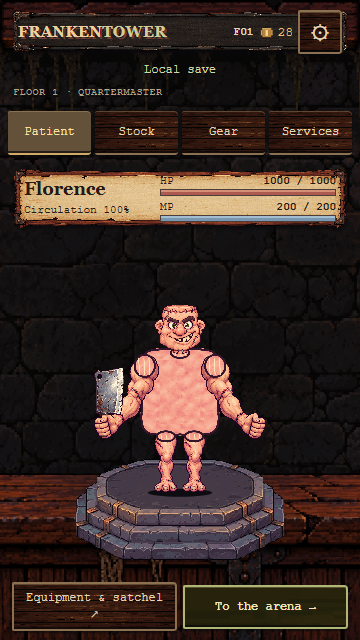
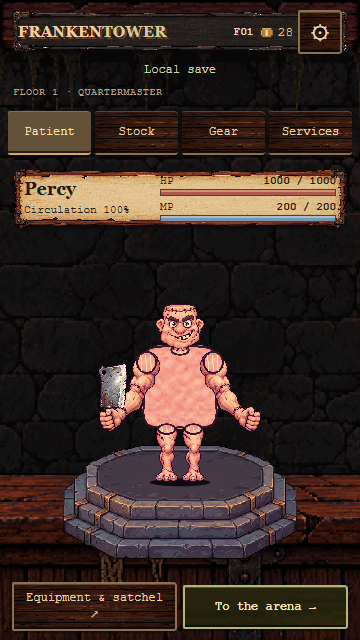
Finish responsive UI verification and private RUN release

Changed region(s): [[0.1528, 0.4688, 0.825, 0.875], [0.0917, 0.2812, 0.3056, 0.3125]]

diff --git a/src/styles.css b/src/styles.css
@@ -29,6 +29,7 @@ input {
 button,
 select {
   min-height: 44px;
+  min-width: 44px;
   border: 2px solid #796047;
   padding: 8px 12px;
   background: #302b28;
@@ -376,6 +377,8 @@ canvas,
   grid-column: 2;
   grid-row: 2;
   min-height: 0;
+  min-width: 0;
+  position: relative;
   display: flex;
   justify-content: center;
   background: #17181e;
@@ -387,6 +390,13 @@ canvas,
   width: auto;
   height: 100%;
   object-fit: contain;
+  pointer-events: none;
+}
+.shop-creature > .dressing-room {
+  position: absolute;
+  inset: 0;
+  width: 100%;
+  height: 100%;
 }
 .equipment-overview {
   grid-column: 1;
@@ -1698,6 +1708,16 @@ canvas,
     width: 48%;
   }
 }
+@media (max-height: 499px), (min-width: 681px) and (max-height: 619px) {
+  .compact-shop .shop-card:has(.purchase-reason) .paged-text {
+    grid-row: 1;
+  }
+  .compact-shop .shop-card .purchase-reason {
+    grid-column: 2;
+    grid-row: 2;
+    align-self: center;
+  }
+}
 @media (max-width: 680px) and (max-height: 619px) {
   .compact-shop .card-info .pixel-icon {
     width: 44px !important;
@@ -1794,9 +1814,25 @@ canvas,
     align-self: start;
     flex-wrap: wrap;
   }
+  .equipment-workspace > .selected-equipment:has(strong) {
+    display: grid;
+    grid-template-columns: 32px minmax(0, 1fr) minmax(0, 1fr);
+    gap: 4px;
+  }
+  .equipment-workspace > .selected-equipment strong {
+    grid-column: 2 / 4;
+  }
+  .equipment-workspace > .selected-equipment button:first-of-type {
+    grid-column: 1 / 3;
+  }
+  .equipment-workspace > .selected-equipment button:last-of-type {
+    grid-column: 3;
+  }
   .equipment-workspace > .action-reason {
     grid-column: 1;
     grid-row: 3;
+    font-size: 12px;
+    line-height: 1.35;
   }
   .equipment-workspace > .paged-list,
   .equipment-workspace > .workspace-satchel {

diff --git a/src/ui-materials.css b/src/ui-materials.css
@@ -510,6 +510,9 @@ button:hover:not(:disabled) {
   }
 }
 @media (max-height: 499px) and (min-width: 681px) {
+  .modal:has(.equipment-workspace) {
+    padding: 18px;
+  }
   .compact-shop {
     display: grid;
     grid-template-columns: 132px minmax(0, 1fr);

diff --git a/docs/ui-review.md b/docs/ui-review.md
@@ -1,8 +1,9 @@
 # UI implementation review
 
-11 October 2026. Status: unfinished implementation checkpoint; final verification
-is outstanding. See [the cross-machine handoff](ui-pass-handoff.md) for precise
-deployment state, setup and continuation steps.
+Updated 13 October 2026. The full UI pass has been implemented and reviewed in
+the local app and private RUN host. Physical-device performance and human
+playtesting remain release-roadmap work. The [11 October handoff](ui-pass-handoff.md)
+preserves the earlier checkpoint; this review records the newer verification.
 
 This records implementation evidence against [UI expectations](ui-expectations.md).
 The shop mockup remains the visual target. The pass replaces the former dashboard
@@ -10,24 +11,24 @@ presentation with dungeon, timber, iron and parchment materials across live view
 
 ## Scope and evidence
 
-| Expectation                        | Implementation and evidence                                                                                                                                                                                                                                    |
-| ---------------------------------- | -------------------------------------------------------------------------------------------------------------------------------------------------------------------------------------------------------------------------------------------------------------- |
-| Phone and desktop compositions     | Desktop shop places patient/equipment, creature and stock beside one another. Compact views separate Patient, Stock, Gear and Services. Short desktop records shrink before equipment controls do.                                                             |
-| Compact phone identity/vitals      | A single-row wordmark/floor/gold/Settings shell; Patient uses a small name/circulation and HP/MP strip. Header shortcuts remain available through Settings.                                                                                                    |
-| Core views without scrolling       | Existing browser check measures document and every visible element for content overflow and off-screen controls across nine viewport sizes, plus stock-field overlap. It covers starter, shop, equipment, inspection, surgery, outcomes and reference dialogs. |
-| Full information remains reachable | Measured wrapped text uses explicit pages; grids use available rows/columns. The check reconstructs complete long item rules and level-three signatures from all text pages.                                                                                   |
-| Equipment expansion                | One bounded workspace with persistent Done, category selection, slot pages, satchel, item details and touch actions. Counts come from actual anatomy. No nested transfer dialogs.                                                                              |
-| Large/repeated anatomy             | Fixtures include 42 hands, 26 feet, seven heads/hearts, and headless control. Category pages keep stable ordinal slot labels. Existing puppet check verifies eight anatomies, three poses and both attack directions.                                          |
-| Limited satchel                    | Eight spaces enforced in game rules and validation. Unit tests verify full-bag swaps/direct empty-slot purchase, rejected transfers without mutation, and displaced surgery equipment before payment.                                                          |
-| Exact surgery preview              | Preview and execution share removal selection; shows slots, HP, Mana, circulation, capacity/load, movement and displaced equipment. Current/Proposed renderer previews use that exact build.                                                                   |
-| Stock state and actual costs       | Four desktop offers, explicit phone offer pages, sold positions retained, free freeze and game-derived service prices. Browser checks exercise buying, freeze, reload and next-floor stock.                                                                    |
-| Tap, pointer and keyboard          | Browser flows exercise purchase/equip/unequip/combine/sell through actual controls. Expanded workspaces trap focus; thirty Tab presses remain inside, Escape restores the opener. Pointer dragging remains optional.                                           |
-| Resize and safe areas              | Layouts account for all four RUN safe-area fields. Browser checks add nonzero insets, rotate and return, preserving workspace/category/page and saved state. Playground check compares CSS insets with the actual SDK values.                                  |
-| Compact arena and outcomes         | Arena remains dominant; compact vitals, pause/speed, opponent inspection and bounded outcome actions. Existing arena check verifies spatial movement, pause/resume, inspection and desktop/mobile composition.                                                 |
-| Reference and recovery             | Help, history, achievements, catalogue, build inspection and reports use sections/pages. Damage recovery and two-step destructive reset fit portrait, landscape and small phone.                                                                               |
-| Scrolling exception                | Only `.combat-transcript` has a bounded scrolling reader; Close and report navigation remain outside it. Hidden measurement probes are excluded from fit checks, not live content.                                                                             |
-| Artwork and rendering quality      | Adaptive nine-slice frames, RUN plinth/timber, display-density icons, and resting-pose creature fitting. Inventory cleaver/crown art matches assembly. Actual screenshots are retained below.                                                                  |
-| Engine and persistence boundaries  | React handles navigation; inventory/surgery own capacity. Shared combat/ability engine retained. Production build enforces exclusion of development-only storage; hosted persistence remains RUN appStorage.                                                   |
+| Expectation                        | Implementation and evidence                                                                                                                                                                                                                                                                                                |
+| ---------------------------------- | -------------------------------------------------------------------------------------------------------------------------------------------------------------------------------------------------------------------------------------------------------------------------------------------------------------------------- |
+| Phone and desktop compositions     | Desktop shop places patient/equipment, creature and stock beside one another. Compact views separate Patient, Stock, Gear and Services. Short desktop records shrink before equipment controls do.                                                                                                                         |
+| Compact phone identity/vitals      | A single-row wordmark/floor/gold/Settings shell; Patient uses a small name/circulation and HP/MP strip. Header shortcuts remain available through Settings.                                                                                                                                                                |
+| Core views without scrolling       | Existing browser check measures document and every visible element for content overflow and off-screen controls across nine viewport sizes, plus stock-field overlap. It covers starter, shop, equipment, inspection, surgery, outcomes and reference dialogs.                                                             |
+| Full information remains reachable | Measured wrapped text uses explicit pages; grids use available rows/columns. The check reconstructs complete long item rules and level-three signatures from all text pages.                                                                                                                                               |
+| Equipment expansion                | One bounded workspace with persistent Done, category selection, slot pages, satchel, item details and touch actions. Counts come from actual anatomy. No nested transfer dialogs.                                                                                                                                          |
+| Large/repeated anatomy             | Fixtures include 42 hands, 26 feet, seven heads/hearts, and headless control. Category pages keep stable ordinal slot labels. Existing puppet check verifies eight anatomies, three poses and both attack directions.                                                                                                      |
+| Limited satchel                    | Eight spaces enforced in game rules and validation. Unit tests verify full-bag swaps/direct empty-slot purchase, rejected transfers without mutation, and displaced surgery equipment before payment.                                                                                                                      |
+| Exact surgery preview              | Preview and execution share removal selection; shows slots, HP, Mana, circulation, capacity/load, movement and displaced equipment. Current/Proposed renderer previews use that exact build.                                                                                                                               |
+| Stock state and actual costs       | Four desktop offers, explicit phone offer pages, sold positions retained, free freeze and game-derived service prices. Browser checks exercise buying, freeze, reload and next-floor stock.                                                                                                                                |
+| Tap, pointer and keyboard          | Browser flows exercise purchase/equip/unequip/combine/sell through actual controls. Visible buttons/selects are measured against the approximately 44-pixel target (two-pixel allowance). Expanded workspaces trap focus; thirty Tab presses remain inside, Escape restores the opener. Pointer dragging remains optional. |
+| Resize and safe areas              | Layouts account for all four RUN safe-area fields. Browser checks add nonzero insets, rotate and return, preserving workspace/category/page and saved state. Playground check compares CSS insets with the actual SDK values.                                                                                              |
+| Compact arena and outcomes         | Arena remains dominant; compact vitals, pause/speed, opponent inspection and bounded outcome actions. Existing arena check verifies spatial movement, pause/resume, inspection and desktop/mobile composition.                                                                                                             |
+| Reference and recovery             | Help, history, achievements, catalogue, build inspection and reports use sections/pages. Damage recovery and two-step destructive reset fit portrait, landscape and small phone.                                                                                                                                           |
+| Scrolling exception                | Only `.combat-transcript` has a bounded scrolling reader; Close and report navigation remain outside it. Hidden measurement probes are excluded from fit checks, not live content.                                                                                                                                         |
+| Artwork and rendering quality      | Adaptive nine-slice frames, RUN plinth/timber, display-density icons, and resting-pose creature fitting. Inventory cleaver/crown art matches assembly. Actual screenshots are retained below.                                                                                                                              |
+| Engine and persistence boundaries  | React handles navigation; inventory/surgery own capacity. Shared combat/ability engine retained. Production build enforces exclusion of development-only storage; hosted persistence remains RUN appStorage.                                                                                                               |
 
 Review sizes, in CSS pixels: **360×640, 390×844, 844×390, 844×342, 1280×720,
 1440×900, 768×1024, 1024×576 and 320×568**. The compact breakpoint is width
@@ -35,17 +36,69 @@ below 1100 or height below 620; additional short-height arrangements apply below
 
 ## Commands and results
 
-- `npm test`: 61/61 passed before the last short-height changes; final run pending.
-- `npm run build`: passed before the last short-height changes; final run pending.
-- `npm run test:browser`: a complete run passed browser, arena, puppet and reliability
-  checks after short-landscape fixes. The latest rerun added a blocked-full-bag
-  fixture; its completion output was not retained and its result is unconfirmed.
+- `npm test`: **61/61 passed** on the final runtime source, 13 October.
+- `npm run build`: **passed**, including the production storage boundary check.
+- `npm run test:browser`: **passed** browser, arena, puppet and reliability checks
+  on the final runtime source. Includes blocked-full-bag stock, inspection and
+  destinations, short-height layouts, field overlap, touch targets and native
+  footer hit geometry after phone-to-desktop rotation.
+- The existing browser check also **passed at actual 125% and 200% Chrome zoom**
+  across all nine effective CSS viewport sizes. Physical windows are scaled to
+  retain the specified effective dimensions; the test verifies those dimensions.
+  This exercises zoom/density rendering as well as the smaller layouts covered
+  by the normal suite. It does not claim arbitrary minimum-size support.
 - `node scripts/playground-check.mjs`: passed actual RUN initialization, identity,
-  cloud writes, reload/read and four-field safe areas using a disposable profile.
-- Private version `1.8.12`: basic persistence/combat smoke passed. The expanded
-  hosted check failed at effective 844×342 with purchased-stock layout overflow.
-  The working tree includes subsequent fixes, but these have not been uploaded
-  or verified on the host. Final private upload and expanded host check pending.
+  cloud writes, reload/read and four-field safe areas using disposable profile
+  `ui_review_1013`. The one-day grant was **revoked** after the final check.
+- Private RUN version **`1.8.14`** contains the final runtime source. Actual-zoom
+  hosted verification **passed** boot, purchase/equipment cloud reload, frame fit,
+  all four SDK safe areas, canvas density, footer hit geometry, combat, floor two,
+  a second cloud reload and saved 4× speed in a disposable profile.
+- The normal-density hosted check **also passed** those checks, including the
+  live resize-to-interaction path using the corrected capture method below.
+
+The prior `1.8.12` short-landscape stock failure is fixed. Blocked stock places
+its explanation beside the price; equipment selection uses a compact grid and
+leaves room inside the frame. Shop canvases are constrained to their scene and
+do not receive pointer input. Buttons/selects retain a 44-pixel minimum width.
+
+### Host measurements and automation limitation
+
+The RUN web toolbar takes 48 CSS pixels. Verified game frames were **390×796,
+844×342, 360×592 and 1440×912**, from browser sizes 390×844, 844×390, 360×640 and
+1440×960. Canvas backing dimensions are checked against the **game frame's actual
+reported DPR**, not an assumed outer-window density. The normal host reported
+DPR 1; actual 200% Chrome zoom reported DPR 1.5 in the RUN frame.
+
+An outer `deviceScaleFactor: 2` setting did not propagate to the RUN frame.
+Playwright's element/full-page screenshot path also cropped actual browser-zoom
+output and left the resized iframe without pointer/click delivery despite
+correct DOM hit geometry; a capture listener confirmed no event reached the
+game. Capturing the rendered viewport directly with CDP, without resizing for
+the screenshot, resolved the capture/input discrepancy. Both normal and actual
+zoom checks retain the live resize-to-interaction path. Native handset input
+remains part of the physical-device release review.
+
+To repeat actual zoom checks with installed Chrome, set
+`FRANKENTOWER_BROWSER_ZOOM=1.25` or `2`. For the local suite, set
+`FRANKENTOWER_CHECKS=browser` to repeat just its UI portion. Zoom checks use an
+isolated temporary persistent Chrome profile and its actual zoom setting; the
+developer's browser/profile is not changed. Default checks use the ordinary
+isolated context. Credentials and private share URLs remain ignored.
+
+## Completion audit against the implementation brief
+
+| Brief section              | Evidence reviewed                                                                                                                                                                                                                                  |
+| -------------------------- | -------------------------------------------------------------------------------------------------------------------------------------------------------------------------------------------------------------------------------------------------- |
+| 1. Fit the viewport        | Nine-size browser fit/overlap/control measurements for starter, shop, expanded gear, inspection, surgery, outcomes, references and recovery; complete rules/signature page reconstruction. Only the bounded transcript scrolls.                    |
+| 2. Phone and desktop       | Separate compact/desktop layout code, actual phone/desktop/short-landscape captures, tablet/intermediate sizes, real zoom runs, local rotation/state preservation and actual RUN iframe/safe-area measurements.                                    |
+| 3. Shared visual language  | Live rendered dungeon scene, adaptive parchment/iron frames, timber controls, compact phone vitals and prominent creature; arena captures retain combat emphasis. Labels/prices are live elements.                                                 |
+| 4. Shop                    | Four offers and sold positions, inspection sections, actual engine costs, paged compact stock, freeze/service flows and cloud-preserved purchases.                                                                                                 |
+| 5. Equipment expansion     | Actual anatomy counts, empty/filled/inactive labels, stable slot pages, extreme/headless fixtures, touch-style transfer/combine/sell controls, category/context retention and focus/close checks.                                                  |
+| 6. Limited satchel         | Capacity eight in rules and save validation; atomic purchase/swap/surgery/combine tests; full-bag UI destinations and contextual blocked explanations.                                                                                             |
+| 7. Screen compositions     | Existing checks cover build, surgery, spatial combat/pause, all four outcome types, build/item inspection, history/help/settings/catalogue/reports and recovery. Captures reviewed from the live renderer.                                         |
+| 8. Interaction/readability | Measured approximately 44-pixel targets, visible focus and labels, Tab/Escape/opener tests, non-colour state text, complete paged descriptions and reduced-motion code; actual 125%/200% zoom runs.                                                |
+| 9. Acceptance evidence     | Final unit/build/full browser checks, real SDK persistence checks, private hosted checks and retained screenshots. No runtime offline storage or public publishing; physical-device/performance/playtest release gates remain explicitly separate. |
 
 Local verification uses installed Chrome through `FRANKENTOWER_BROWSER_EXECUTABLE`.
 The environment has Node 24.14.0; clean CI continues using the repository's Node 22
@@ -56,6 +109,12 @@ configuration. Credentials and private links remain in ignored files.
 See [the retained review captures](../output/art-direction/ui-pass/review/) and
 [art provenance / exact RUN prompts](../output/art-direction/ui-pass/README.md).
 These are rendered screens from the app, not concept images.
+
+The 13 October captures include updated desktop/phone shops, short landscape
+blocked purchases/destinations and surgery. Hosted captures show the actual RUN
+browser viewport, including its toolbar. They do not include the private share
+URL or credentials. Zoomed captures were visually reviewed for full visibility,
+not accepted solely from DOM measurements.
 
 ## Compatibility and remaining release work
 

diff --git a/docs/ui-pass-handoff.md b/docs/ui-pass-handoff.md
@@ -2,9 +2,19 @@
 
 Recorded **11 October 2026**, Australia/Brisbane. This is an unfinished implementation checkpoint for resuming on another machine.
 
+**13 October continuation:** the UI pass was resumed from commit `a657cd8`.
+The stock/equipment short-height issues, touch widths and display bounds were
+corrected and privately uploaded as RUN **1.8.14**. Unit/build/browser, actual
+125%/200% zoom, Playground and private hosted checks passed. The temporary
+Playground grant was revoked. Read [the updated review](ui-review.md) for the
+current evidence and the hosted automation setup; the remainder of this document
+records the earlier handoff and its then-outstanding work.
+
 ## Goal and agreed direction
 
-Goal: **apply the new UI expectations to the full application**. The goal service currently reports **paused**. Resume this goal when Daniel requests continuation; do not mark it complete from this checkpoint.
+Goal: **apply the new UI expectations to the full application**. At the 11 October
+checkpoint the goal service reported **paused**. Daniel resumed it on 13 October.
+The earlier checkpoint alone was not completion evidence; use the updated review.
 
 Read these before making changes:
 
@@ -137,12 +147,17 @@ For actual RUN checks, install/authorize the RUN CLI using the supported account
 A one-day headless Playground grant was created in the original machine's ignored `.env.local` for a disposable profile (`ui_review_1011`). Revocation has not been confirmed at handoff; expiry is 12 October 2026. **Do not transfer that credential.** Create your own short-lived grant if needed and revoke it when checks finish:
 
 ```sh
-rundot playground grant-access --expires-in-days 1
+rundot playground grant-access --game-id mjkCVhrId815cvHaoaqj --expires-in-days 1
 # Start the real Playground Vite server in another terminal.
 # Set FRANKENTOWER_PLAYGROUND_URL to its URL with a new disposable rundotPlayer.
 node scripts/playground-check.mjs
 rundot playground revoke-access
 ```
+
+The current CLI requires the **production game ID** when minting the headless
+grant. The Vite Playground still runs the different ID in
+`game.config.playground.json`; supplying that Playground ID to grant-access
+returns 404. This was verified during the 13 October continuation.
 
 Original process handles and servers (offline port 5175 and Playground port 5177) are machine-local; do not rely on them. `test-results/`, `.env.local`, `dist/` and installed dependencies are not part of the checkpoint. Portable evidence is under `output/art-direction/`.
 

diff --git a/docs/production-roadmap.md b/docs/production-roadmap.md
@@ -54,13 +54,15 @@ Exit gate: new players understand the loop; skilled players can complete the tow
 
 ## 4. Finish presentation and interaction — release blocker
 
-11 October update: the [UI expectations](ui-expectations.md) have been implemented
+13 October update: the [UI expectations](ui-expectations.md) have been implemented
 across the application, with phone/desktop compositions, bounded equipment and
 inspection workspaces, explicit pages, and textured dungeon materials. The
 combat transcript is the scrolling exception. The initial satchel capacity is
 eight; inventory and surgery validate complete operations before mutation.
 [UI review](ui-review.md) records browser, artwork and RUN verification evidence
-and the remaining device/playtest limits. This implementation does not establish
+and the remaining device/playtest limits. Private RUN version 1.8.14 passed
+hosted persistence and layout checks; normal and actual 125%/200% zoom UI checks
+passed locally. This implementation does not establish
 public release readiness or replace the human/device gates below.
 
 Evidence: `docs/visual-direction.txt`, `docs/art-prototype.md`, `src/ui/Arena.tsx`, `src/art/puppet.ts`, `src/ui/Modal.tsx`, `src/App.tsx`.

diff --git a/output/art-direction/ui-pass/README.md b/output/art-direction/ui-pass/README.md
@@ -61,9 +61,12 @@ gap; the accepted PNGs are retained as future style exemplars.
 
 ## Captures
 
-`review/` contains actual game screenshots from the implementation checkpoint.
+`review/` contains actual game screenshots, refreshed on 13 October.
 These demonstrate rendered output; automated fit checks are recorded separately
 in the UI review. The phone Patient screen uses the compact record strip rather
 than the former large name/health panel. Short-landscape 844×342 captures show
-local fixes newer than private RUN version 1.8.12. See the
-[handoff](../../../docs/ui-pass-handoff.md) for outstanding verification.
+the layout fixes included in private RUN version 1.8.14. Hosted captures show the
+actual RUN browser viewport and toolbar, without private URLs or credentials. See the
+[implementation review](../../../docs/ui-review.md) for command results,
+zoom coverage and the host automation limitation. The
+[handoff](../../../docs/ui-pass-handoff.md) preserves the earlier checkpoint.

diff --git a/docs/release-notes.md b/docs/release-notes.md
@@ -17,6 +17,11 @@ Inventory pictures now match the accepted cleaver and crown silhouettes. Icons
 render at display density. The creature uses a RUN-generated stone plinth;
 controls use a RUN-generated timber texture.
 
+Short landscape keeps blocked-purchase explanations beside the price and gives
+equipment selection clear space inside its frame. Touch controls retain a minimum
+44-pixel width. The creature display stays within its scene after rotation and
+does not intercept the arena action.
+
 This changes the development ruleset to frankentower-3. Incompatible development
 saves reset; no save migration is provided.
 
